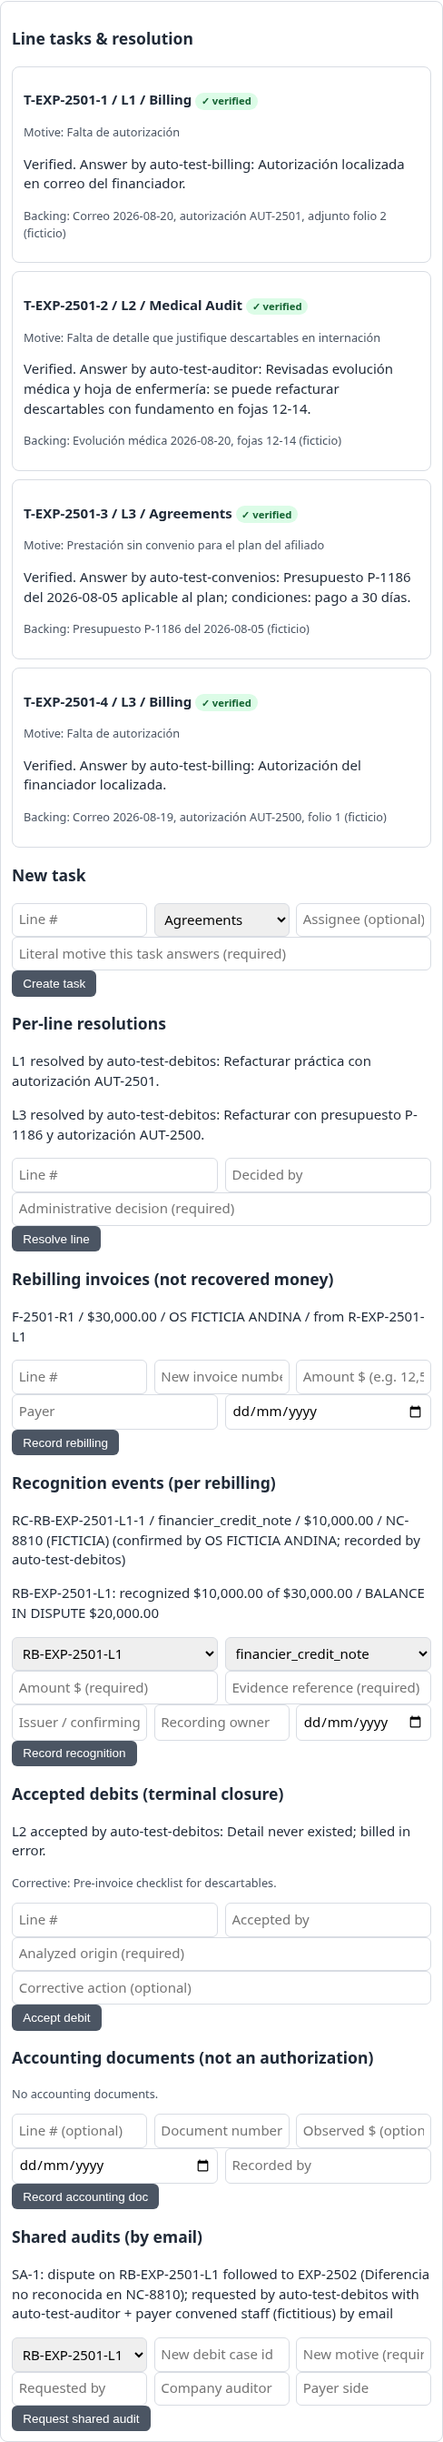
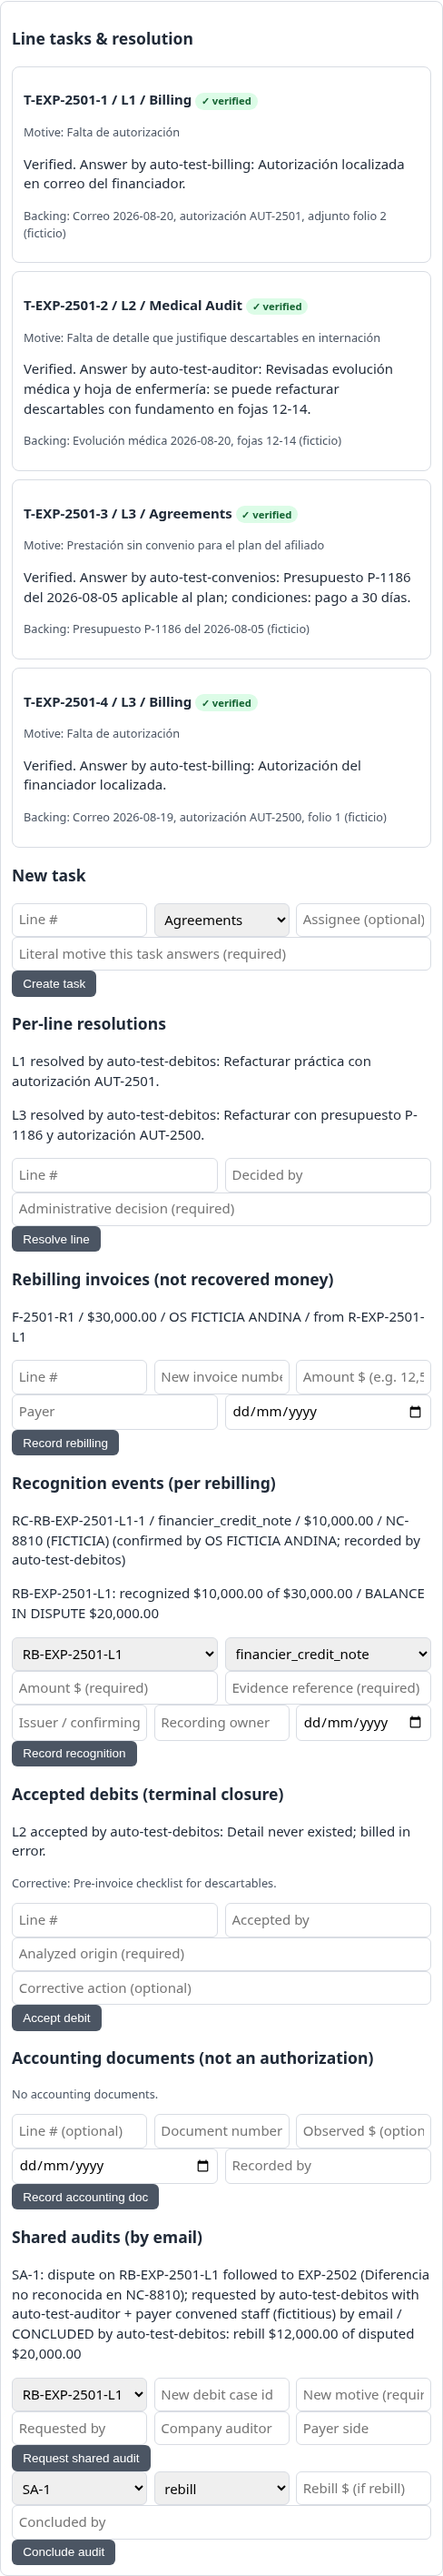
Shared audit conclusion: rebill terms or accept, on new case

Changed region(s): [[0.0307, 0.0, 0.9836, 1.0], [0.9221, 0.5255, 0.9529, 0.5873]]

diff --git a/debit_ai/static/app.js b/debit_ai/static/app.js
@@ -713,7 +713,12 @@ function renderCircuit(n) {
   aus.forEach(a => {
     sg.appendChild(el("p", null, a.id + ": dispute on " + a.origin_rebilling_id +
       " followed to " + a.new_case_id + " (" + a.new_motive + "); requested by " +
-      a.requested_by + " with " + a.company_auditor + " + " + a.payer_side + " by email"));
+      a.requested_by + " with " + a.company_auditor + " + " + a.payer_side + " by email" +
+      (a.conclusion ? (" / CONCLUDED by " + a.conclusion.concluded_by + ": " +
+        (a.conclusion.outcome === "rebill"
+          ? ("rebill " + fmtMoney(a.conclusion.rebill_cents) + " of disputed " +
+             fmtMoney(a.conclusion.disputed_cents))
+          : ("accepted (disputed was " + fmtMoney(a.conclusion.disputed_cents) + ")"))) : "")));
   });
   if (C.rebillings.length) {
     const u1 = el("div", "row", null);
@@ -745,6 +750,37 @@ function renderCircuit(n) {
       company_auditor: $("sa-auditor").value, payer_side: $("sa-payer").value,
       channel: "email"}, "Shared audit requested (by email)."));
     sg.appendChild(bu);
+  }
+  if (aus.length) {
+    const w1 = el("div", "row", null);
+    const ws = el("select", null, null);
+    ws.id = "sx-audit"; ws.setAttribute("aria-label", "Audit");
+    aus.forEach(a => ws.appendChild(el("option", null, a.id)));
+    const wo = el("select", null, null);
+    wo.id = "sx-outcome"; wo.setAttribute("aria-label", "Outcome");
+    ["rebill", "accept"].forEach(v => wo.appendChild(el("option", null, v)));
+    const wm = el("input", null, null);
+    wm.id = "sx-amount"; wm.placeholder = "Rebill $ (if rebill)";
+    wm.setAttribute("aria-label", "Rebill amount");
+    w1.appendChild(ws); w1.appendChild(wo); w1.appendChild(wm);
+    sg.appendChild(w1);
+    const w2 = el("div", "row", null);
+    const wb = el("input", null, null);
+    wb.id = "sx-by"; wb.placeholder = "Concluded by"; wb.setAttribute("aria-label", "Concluded by");
+    w2.appendChild(wb);
+    sg.appendChild(w2);
+    const bw = el("button", "sec", "Conclude audit");
+    bw.id = "b-conclude"; bw.disabled = S.busy;
+    bw.addEventListener("click", () => {
+      const raw = $("sx-amount").value.trim();
+      const amt = raw ? parseMoney(raw) : null;
+      if (raw && amt === null) { circuitMsg("Invalid amount: use 12,500.50 format."); return; }
+      const body = {audit_id: $("sx-audit").value, concluded_by: $("sx-by").value,
+        outcome: $("sx-outcome").value};
+      if (amt !== null) body.rebill_cents = amt;
+      circuitPost("/api/shared-audit/conclude", body, "Audit concluded with agreed terms.");
+    });
+    sg.appendChild(bw);
   }
   const so = el("div", null, null);
   so.id = "circuit-out";
@@ -819,7 +855,7 @@ function renderEvidence() {
   const evtLast = S.hist[S.hist.length - 1];
   n.appendChild(el("p", "muted", S.hist.length + " events · last: " +
     evtLast[1] + " " + (evtLast[5] || "")));
-  const ICON = {proposal: "✓", review: "✔", model_call: "◈", gate: "⛔", task: "→", task_verify: "✔", task_return: "↩", resolution: "●", rebilling: "▸", recovery: "◆", recognition: "◆", reconcile: "=", accepted: "■", accounting_doc: "▤", shared_audit: "✉"};
+  const ICON = {proposal: "✓", review: "✔", model_call: "◈", gate: "⛔", task: "→", task_verify: "✔", task_return: "↩", resolution: "●", rebilling: "▸", recovery: "◆", recognition: "◆", reconcile: "=", accepted: "■", accounting_doc: "▤", shared_audit: "✉", audit_conclusion: "✔"};
   S.hist.filter(h => ICON[h[1]]).forEach(h => {
     const d = el("p", null, null);
     d.appendChild(el("strong", null, ICON[h[1]] + " " + h[1] + " "));

diff --git a/debit_ai/tasks.py b/debit_ai/tasks.py
@@ -497,3 +497,67 @@ def request_shared_audit(store: SyntheticStore, origin_rebilling_id: str,
               f"({new_motive[:100]})",
               before="new debit", after=au["id"])
     return au
+
+
+AUDIT_OUTCOMES = ("rebill", "accept")
+
+
+def conclude_shared_audit(store: SyntheticStore, audit_id: str,
+                          concluded_by: str, outcome: str,
+                          rebill_cents: int | None = None, date: str = "",
+                          note: str = "") -> dict:
+    """Record the agreed terms closing a shared audit, on the new case:
+    how much of the pending (disputed) amount will be rebilled, or
+    that it is accepted. Terms only: lines still close through the
+    normal per-line actions (resolution/rebilling or accepted debit).
+    One conclusion per audit; the disputed snapshot is preserved."""
+    au = _find_audit(store, audit_id)
+    if au is None:
+        raise KeyError(f"shared audit not found: {audit_id}")
+    if au["conclusion"] is not None:
+        raise ValueError(f"{audit_id} already concluded")
+    if outcome not in AUDIT_OUTCOMES:
+        raise ValueError(f"unknown audit outcome: {outcome}")
+    concluded_by = _need(concluded_by, "concluded_by")
+    disputed = disputed_balance(store, au["origin_rebilling_id"])
+    if outcome == "rebill":
+        if type(rebill_cents) is not int or rebill_cents <= 0:
+            raise ValueError("rebill outcome needs rebill_cents > 0")
+        if rebill_cents > disputed:
+            raise ValueError(f"rebill {rebill_cents}c exceeds disputed "
+                             f"{disputed}c")
+    else:
+        rebill_cents = None
+    c = {"id": f"AC-{audit_id}", "audit_id": audit_id, "outcome": outcome,
+         "rebill_cents": rebill_cents, "disputed_cents": disputed,
+         "concluded_by": concluded_by, "date": (date or "").strip(),
+         "note": (note or "").strip(), "created_at": _now()}
+    store.save_conclusion(c)
+    rb = store.get_rebilling(au["origin_rebilling_id"])
+    terms = (f"rebill {rebill_cents}c of disputed {disputed}c"
+             if outcome == "rebill"
+             else f"accepted (disputed was {disputed}c)")
+    store.log(rb["case_id"], "audit_conclusion",
+              f"{audit_id} concluded by {concluded_by}: {terms}",
+              before="audit open", after=c["id"])
+    store.log(au["new_case_id"], "audit_conclusion",
+              f"{audit_id} concluded by {concluded_by}: {terms}",
+              before="audit open", after=c["id"])
+    return c
+
+
+def _find_audit(store: SyntheticStore, audit_id: str) -> dict | None:
+    con = store._con()
+    try:
+        row = con.execute("SELECT * FROM shared_audits WHERE id=?",
+                          (audit_id,)).fetchone()
+    finally:
+        con.close()
+    if not row:
+        return None
+    keys = ("id", "origin_rebilling_id", "new_case_id", "new_motive",
+            "requested_by", "company_auditor", "payer_side",
+            "channel", "note", "created_at")
+    d = dict(zip(keys, row))
+    d["conclusion"] = store.get_conclusion(audit_id)
+    return d

diff --git a/debit_ai/synthetic.py b/debit_ai/synthetic.py
@@ -87,6 +87,11 @@ CREATE TABLE IF NOT EXISTS shared_audits (
   payer_side TEXT, channel TEXT, note TEXT DEFAULT '',
   created_at TEXT DEFAULT '',
   UNIQUE (origin_rebilling_id, new_case_id));
+CREATE TABLE IF NOT EXISTS audit_conclusions (
+  id TEXT PRIMARY KEY, audit_id TEXT UNIQUE, outcome TEXT,
+  rebill_cents INTEGER, disputed_cents INTEGER, concluded_by TEXT,
+  date TEXT DEFAULT '', note TEXT DEFAULT '',
+  created_at TEXT DEFAULT '');
 """
 
 
@@ -692,8 +697,11 @@ class SyntheticStore(CaseStore):
         con = self._con()
         try:
             rows = con.execute(
-                "SELECT a.* FROM shared_audits a LEFT JOIN rebillings b "
+                "SELECT a.*, c.outcome, c.rebill_cents, c.disputed_cents, "
+                "c.concluded_by, c.date, c.note, c.created_at "
+                "FROM shared_audits a LEFT JOIN rebillings b "
                 "ON a.origin_rebilling_id = b.id "
+                "LEFT JOIN audit_conclusions c ON c.audit_id = a.id "
                 "WHERE b.case_id=? OR a.new_case_id=?", (case_id, case_id)
             ).fetchall()
         finally:
@@ -701,7 +709,41 @@ class SyntheticStore(CaseStore):
         keys = ("id", "origin_rebilling_id", "new_case_id", "new_motive",
                 "requested_by", "company_auditor", "payer_side",
                 "channel", "note", "created_at")
-        return [dict(zip(keys, r)) for r in rows]
+        out = []
+        for r in rows:
+            d = dict(zip(keys, r[:10]))
+            d["conclusion"] = None
+            if r[10] is not None:
+                d["conclusion"] = dict(zip(
+                    ("outcome", "rebill_cents", "disputed_cents",
+                     "concluded_by", "date", "note", "created_at"), r[10:17]))
+            out.append(d)
+        return out
+
+    def save_conclusion(self, c: dict) -> None:
+        con = self._con()
+        try:
+            con.execute("INSERT INTO audit_conclusions VALUES (?,?,?,?,?,?,?,?,?)",
+                        (c["id"], c["audit_id"], c["outcome"],
+                         c.get("rebill_cents"), c["disputed_cents"],
+                         c["concluded_by"], c.get("date", ""),
+                         c.get("note", ""), c.get("created_at", "")))
+            con.commit()
+        finally:
+            con.close()
+
+    def get_conclusion(self, audit_id: str) -> dict | None:
+        con = self._con()
+        try:
+            row = con.execute("SELECT * FROM audit_conclusions WHERE audit_id=?",
+                              (audit_id,)).fetchone()
+        finally:
+            con.close()
+        if not row:
+            return None
+        return dict(zip(("id", "audit_id", "outcome", "rebill_cents",
+                         "disputed_cents", "concluded_by", "date", "note",
+                         "created_at"), row))
 
     def get_proposal(self, pid: str) -> dict | None:
         con = self._con()

diff --git a/tests/test_circuit.py b/tests/test_circuit.py
@@ -403,3 +403,48 @@ class TestSharedAudit(unittest.TestCase):
         tasks.request_shared_audit(s, rb["id"], "C2", "m", DEB, "A", "P")
         with self.assertRaisesRegex(ValueError, "already links"):
             tasks.request_shared_audit(s, rb["id"], "C2", "m2", DEB, "A", "P")
+
+
+class TestAuditConclusion(unittest.TestCase):
+    def _audit(self):
+        s = _store()
+        s.seed_case(Case("C2", "P", "F-2",
+                         (LineItem(1, "PR", "new motive", 20000, 0),), 20000))
+        rb = _rebilled(s)
+        tasks.record_recognition(s, rb["id"], "financier_credit_note",
+                                 10000, "NC-1", "P", DEB, "2026-09-20")
+        au = tasks.request_shared_audit(s, rb["id"], "C2", "rest re-debited",
+                                        DEB, "auto-test-auditor", "staff")
+        return s, au
+
+    def test_rebill_conclusion(self):
+        s, au = self._audit()
+        c = tasks.conclude_shared_audit(s, au["id"], DEB, "rebill", 12000)
+        self.assertEqual(c["rebill_cents"], 12000)
+        self.assertEqual(c["disputed_cents"], 20000)
+        got = [a for a in s.list_shared_audits("C1")
+               if a["id"] == au["id"]][0]["conclusion"]
+        self.assertEqual(got["outcome"], "rebill")
+        self.assertIn("audit_conclusion", [h[1] for h in s.history("C1")])
+        self.assertIn("audit_conclusion", [h[1] for h in s.history("C2")])
+
+    def test_accept_conclusion(self):
+        s, au = self._audit()
+        c = tasks.conclude_shared_audit(s, au["id"], DEB, "accept")
+        self.assertEqual(c["outcome"], "accept")
+        self.assertIsNone(c["rebill_cents"])
+
+    def test_conclusion_guards(self):
+        s, au = self._audit()
+        with self.assertRaises(KeyError):
+            tasks.conclude_shared_audit(s, "SA-99", DEB, "accept")
+        with self.assertRaises(ValueError):
+            tasks.conclude_shared_audit(s, au["id"], DEB, "split")
+        with self.assertRaises(ValueError):
+            tasks.conclude_shared_audit(s, au["id"], "  ", "accept")
+        for bad in (None, 0, -100, 20001, 30000):
+            with self.assertRaises(ValueError):
+                tasks.conclude_shared_audit(s, au["id"], DEB, "rebill", bad)
+        tasks.conclude_shared_audit(s, au["id"], DEB, "rebill", 12000)
+        with self.assertRaisesRegex(ValueError, "already concluded"):
+            tasks.conclude_shared_audit(s, au["id"], DEB, "accept")

diff --git a/tools/demo_circuit.py b/tools/demo_circuit.py
@@ -113,10 +113,13 @@ def build(db: str) -> dict:
             LineItem(1, "CONSULTA GENERAL",
                      "Diferencia no reconocida en NC-8810", 2000000, 0),
         ), 2000000, "new", "2026-09-25"))
-    tasks.request_shared_audit(s, rb["id"], "EXP-2502",
-                               "Diferencia no reconocida en NC-8810", DEB,
-                               "auto-test-auditor",
-                               "payer convened staff (fictitious)")
+    au = tasks.request_shared_audit(s, rb["id"], "EXP-2502",
+                                      "Diferencia no reconocida en NC-8810",
+                                      DEB, "auto-test-auditor",
+                                      "payer convened staff (fictitious)")
+    tasks.conclude_shared_audit(s, au["id"], DEB, "rebill", 1200000,
+                                "2026-10-15",
+                                "Fictitious agreed terms for demo.")
     return {"case": CASE,
             "tasks": len(s.list_tasks(CASE)),
             "resolutions": len(s.list_resolutions(CASE)),
@@ -143,7 +146,7 @@ def main(argv=None) -> dict:
           f"rebilling(s), {summary['recognitions']} recognition(s), "
           f"{summary['accepted']} accepted, disputed "
           f"{summary['disputed_cents']}c, cases {summary['cases']}, "
-          f"1 shared audit)")
+          f"1 shared audit, concluded)")
     return summary
 
 

diff --git a/debit_ai/demo_app.py b/debit_ai/demo_app.py
@@ -299,6 +299,12 @@ class Handler(BaseHTTPRequestHandler):
                     body.get("payer_side", ""), body.get("channel", "email"),
                     body.get("note", ""))
                 _json(self, 200, {"shared_audit": au})
+            elif self.path == "/api/shared-audit/conclude":
+                c = tasks.conclude_shared_audit(
+                    self.store, body["audit_id"], body.get("concluded_by", ""),
+                    body.get("outcome", ""), body.get("rebill_cents"),
+                    body.get("date", ""), body.get("note", ""))
+                _json(self, 200, {"conclusion": c})
             elif self.path == "/api/accounting-doc":
                 doc = tasks.record_accounting_doc(
                     self.store, body["case_id"], body.get("line_no"),

diff --git a/TEST_REPORT.md b/TEST_REPORT.md
@@ -40,7 +40,7 @@ fixtures only, history 0 — the honest empty state).
 ## Deterministic metrics (no model)
 
 Run (local environment):
-- Offline suite: 118 tests OK, 2 live skipped (gated by
+- Offline suite: 121 tests OK, 2 live skipped (gated by
   `META_LIVE=1` / `BASETEN_LIVE=1`, off by default).
   Stages 1-4 added: strict money-input vectors (Node, 25/25),
   post-model gate, neutral routing (no merit conclusions),
@@ -52,8 +52,8 @@ Run (local environment):
   per-line resolution, rebilling link, partial recognition with
   issuer, dispute balance, duplicate refusal, reconciliation,
   accepted-debit closure, accounting docs with authorization-gap
-  alerts, shared-audit link with guards, no amount-derived
-  status) + 9 provider-limit tests
+  alerts, shared-audit link and conclusion with guards, no
+  amount-derived status) + 9 provider-limit tests
   (input truncation before any call, output token caps passed to
   Meta responses/chat and Baseten chat, coverage transparency in
   model_call and proposal, stubbed clients, 0 network).
@@ -109,7 +109,8 @@ Run (local environment):
   actors auto-test-*): 3 lines, 4 tasks, 1 return, 2 resolutions,
   1 rebilling with partial recognition ($10,000 of $30,000,
   $20,000 disputed), 1 accepted debit, 1 shared audit (dispute
-  returns as EXP-2502). Shot `docs/shots/05-process.png`.
+  returns as EXP-2502, concluded: rebill $12,000). Shot
+  `docs/shots/05-process.png`.
 - Synthetic evaluation over 7 controlled cases: extraction 7/7,
   routing 7/7, abstention 7/7 (includes 1 scanned PDF with
   spa OCR, confidence 0.92). "Abstention 7/7" means: routed to a human
@@ -140,13 +141,14 @@ Run (local environment):
   fallen provider → DEGRADED with the deterministic casefile intact.
 - UI verified in real engines (jsdom probes + Chromium screenshots
   against a scratch server, simulated provider, 0 paid calls):
-  circuit probe 25/25 in Chromium (Playwright; the /tmp jsdom
+  circuit probe 28/28 in Chromium (Playwright; the /tmp jsdom
   harness was lost to a tmp cleanup, probes re-implemented):
   create → answer guards → verify → resolve → rebill →
   partial recognition with dispute → duplicate refusal →
   ambiguity alert → reconcile → accepted debit with closure
   guards → shared-audit request with duplicate guard →
-  accounting-doc alert, prebuilt circuit case;
+  audit conclusion with terms guards → accounting-doc alert,
+  prebuilt circuit case;
   0 console errors; 0 innerHTML uses. Review UI code unchanged
   since its 9/9; review backend re-verified via API (propose →
   approve → single review event).
@@ -205,11 +207,10 @@ Run (local environment):
 Pending:
 - Real JSON adapter (implemented, disabled, unverified).
 - OCR on documents outside the controlled fixtures.
-- Circuit exceptions still open: HOW a shared audit concludes
-  (request/participants/email channel implemented; no conclusion
-  states — ask with a concrete example before automating);
-  joint multi-line resolutions (single-line only, unconfirmed).
+- Circuit exceptions still open: joint multi-line resolutions
+  (single-line only, unconfirmed).
   Settled: "saldo en disputa" (confirmed); multiple documented
   events per rebilling ALLOWED (partial recognition);
   multi-invoice notes ruled out (owner: modeling error);
-  accepted-debit text fields suffice.
+  accepted-debit text fields suffice; shared-audit conclusion
+  (rebill amount within disputed, or accept; terms only).

diff --git a/README.md b/README.md
@@ -102,8 +102,10 @@ payer reasons. "Medical Audit" is a human destination team.
   ambiguous pairs await human reconciliation (never auto-merged).
   Disputed balances returning as new debits open a shared audit
   (requested by debitos with the company auditor + payer staff,
-  by email), linked to the origin rebilling; how the audit
-  concludes is not defined yet.
+  by email), linked to the origin rebilling; the audit concludes
+  on the new case defining how much of the pending is rebilled
+  or that it is accepted (terms only; lines still close through
+  the normal per-line actions).
   Terminal "accepted debit" closure (owner recognizes the debit
   stands) with origin analysis and corrective action. Accounting
   documents are recorded separately and never substitute the

diff --git a/DEMO_SCRIPT.md b/DEMO_SCRIPT.md
@@ -30,8 +30,8 @@ returned insufficient answer, debitos verifications, individual
 per-line resolution, linked rebilling invoice (not money),
 partial recognition ($10,000 of $30,000, balance in dispute),
 accepted-debit closure with origin analysis, shared audit
-(disputed $20,000 returns as EXP-2502, by email). Evidence labeled
-fictitious.
+(disputed $20,000 returns as EXP-2502, by email, concluded:
+rebill $12,000). Evidence labeled fictitious.
 [2:55] Closing: idea declared eligible by Adam Blumenfeld (Cerebral
 Valley) on 10/27/2026 for administrative management with fictitious
 data and human approval. Real vs simulated vs pending in

diff --git a/ARCHITECTURE.md b/ARCHITECTURE.md
@@ -33,8 +33,8 @@ contracts.py <-- synthetic.py <-- agent.py --> provider.py
 - `tasks.py`: per-line task circuit (answer with backing,
   debitos verify/return, per-line resolution, rebilling,
   recognition events with issuer, dispute balance, accepted-debit
-  closure, accounting docs, reconciliation, shared audits,
-  alerts).
+  closure, accounting docs, reconciliation, shared audits with
+  conclusions, alerts).
   `approvals.followup` and `tasks.record_recovery` are legacy,
   kept only for old records and unit tests.
 - Boundaries: rule score (int) and extraction confidence (float)
